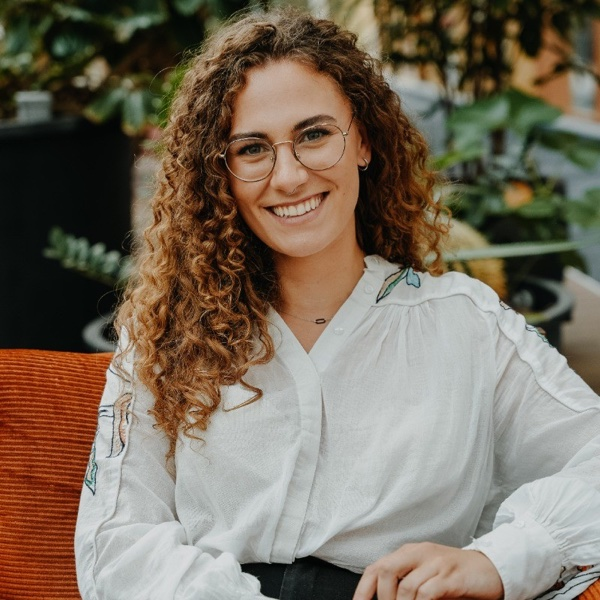
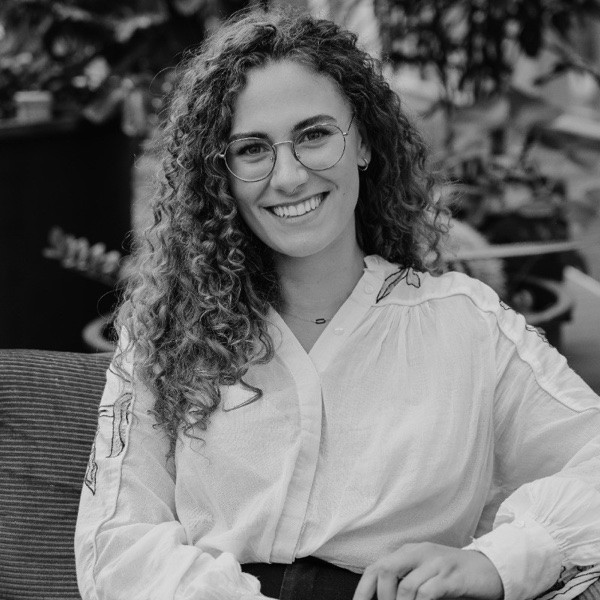
Redesign talent-as-a-service pricing, add reviews/testimonial, rename community page
- Rebuild the "talent as a service" section on the recruitment page as an
  original two-column per-placement vs. subscription comparison instead of
  the reference site's layout
- Add a real Noortje Jonk testimonial and Google reviews badge to the
  recruitment page, with a black-and-white photo matching the About page
  convention
- Rename "Community & jobboard" to "Studenten bereiken"/"Reach students"
  (eyebrow + nav dropdown) since the page is about reaching students, not
  the channels, and add a subscription-vs-per-placement pricing section

diff --git a/components/pages/WervingSelectiePage.tsx b/components/pages/WervingSelectiePage.tsx
@@ -24,6 +24,16 @@ const COPY: Record<
     casesSub: string;
     profilesTitle: string;
     profilesSub: string;
+    taasEyebrow: string;
+    taasTitle: string;
+    taasSub: string;
+    taasPlacementBadge: string;
+    taasPlacementTitle: string;
+    taasPlacementBullets: string[];
+    taasSubBadge: string;
+    taasSubTitle: string;
+    taasSubBullets: string[];
+    taasCta: string;
     testimonialP1: string;
     testimonialP2: string;
     testimonialName: string;
@@ -52,10 +62,28 @@ const COPY: Record<
     casesSub: "Een kleine greep uit de vele bedrijven waar we mee hebben samengewerkt, van scale-up tot corporate.",
     profilesTitle: "HIGH ACHIEVERS, GESELECTEERD OP KWALITEIT EN CULTUUR.",
     profilesSub: "We sourcen voornamelijk hbo- en wo-studenten en young professionals: ambitieus, snel zelfstandig en gewend om te presteren naast hun studie. We matchen niet alleen op skills, maar vooral op cultuurfit, zodat wat we voorstellen ook echt past.",
+    taasEyebrow: "Twee manieren om samen te werken",
+    taasTitle: "VOIDS TALENT AS A SERVICE",
+    taasSub: "Zelfde zorgvuldige werving en selectie, twee manieren om af te rekenen. Kies wat past bij hoe vaak je werft.",
+    taasPlacementBadge: "Eenmalig",
+    taasPlacementTitle: "Per plaatsing",
+    taasPlacementBullets: [
+      "Eén tarief, alleen bij een succesvolle plaatsing",
+      "Geen doorlopende verplichting of vast contract",
+      "Ideaal voor een concrete, eenmalige vacature",
+    ],
+    taasSubBadge: "Doorlopend",
+    taasSubTitle: "Abonnement",
+    taasSubBullets: [
+      "Vast, voordeliger tarief per maand, ongeacht het aantal plaatsingen",
+      "Naadloze vervanging inbegrepen zodra een werkstudent stopt",
+      "Binnen 30 dagen versterking uit onze community van 4.000+ studenten",
+    ],
+    taasCta: "Vraag naar de abonnementsvorm",
     testimonialP1:
-      "We zochten een **vrij specifiek profiel** voor onze werkstudent: iemand met zowel theoretische als praktische kennis van marketing, en affiniteit met de energietransitie – met name netcongestie-oplossingen.",
+      "We zochten een vrij specifiek profiel voor onze werkstudent: iemand met zowel theoretische als praktische kennis van marketing, en affiniteit met de energietransitie, met name netcongestie-oplossingen.",
     testimonialP2:
-      "VOIDS vond **op korte termijn** vier kandidaten voor ons, en na onze eigen gesprekken **vonden we een uitstekende match**. Complimenten aan VOIDS voor hun professionaliteit en betrokkenheid.",
+      "VOIDS vond op korte termijn vier kandidaten voor ons, en na onze eigen gesprekken vonden we een uitstekende match. Complimenten aan VOIDS voor hun professionaliteit en betrokkenheid.",
     testimonialName: "Noortje Jonk",
     testimonialRole: "Commercial Manager bij Enerzien",
     googleRating: "5.0",
@@ -81,10 +109,28 @@ const COPY: Record<
     casesSub: "A small selection from the many companies we've worked with, from scale-up to corporate.",
     profilesTitle: "HIGH ACHIEVERS, SELECTED ON QUALITY AND CULTURE.",
     profilesSub: "We mainly source university and university-of-applied-sciences students and young professionals: ambitious, quick to work independently, and used to performing alongside their studies. We match not just on skills but on culture fit, so what we put forward actually fits.",
+    taasEyebrow: "Two ways to work with us",
+    taasTitle: "VOIDS TALENT AS A SERVICE",
+    taasSub: "Same careful recruitment and selection, two ways to pay for it. Pick what fits how often you hire.",
+    taasPlacementBadge: "One-off",
+    taasPlacementTitle: "Per placement",
+    taasPlacementBullets: [
+      "One fee, only when a placement succeeds",
+      "No ongoing commitment or fixed contract",
+      "Ideal for a single, concrete vacancy",
+    ],
+    taasSubBadge: "Ongoing",
+    taasSubTitle: "Subscription",
+    taasSubBullets: [
+      "Fixed, better-value monthly fee, regardless of how many placements",
+      "Seamless replacement included the moment a working student stops",
+      "Reinforcements within 30 days from our community of 4,000+ students",
+    ],
+    taasCta: "Ask about the subscription",
     testimonialP1:
-      "We were looking for a **fairly specific profile** for our working student: someone with both theoretical and practical knowledge of marketing, and affinity with the energy transition – especially grid congestion solutions.",
+      "We were looking for a fairly specific profile for our working student: someone with both theoretical and practical knowledge of marketing, and affinity with the energy transition, especially grid congestion solutions.",
     testimonialP2:
-      "VOIDS found four candidates for us **on short notice**, and after conducting our own interviews **we found a great fit**. Compliments to VOIDS for their professionalism and commitment.",
+      "VOIDS found four candidates for us on short notice, and after conducting our own interviews we found a great fit. Compliments to VOIDS for their professionalism and commitment.",
     testimonialName: "Noortje Jonk",
     testimonialRole: "Commercial Manager at Enerzien",
     googleRating: "5.0",
@@ -198,8 +244,8 @@ export function WervingSelectiePage({ lang }: { lang: Lang }) {
             <div style={{ color: "var(--voids-purple-100)", fontSize: 13 }}>{c.testimonialRole}</div>
           </div>
           <div>
-            <p style={{ fontSize: 18, lineHeight: 1.6, color: "#fff", margin: "0 0 16px" }}>&ldquo;{renderEmphasis(c.testimonialP1)}</p>
-            <p style={{ fontSize: 18, lineHeight: 1.6, color: "#fff", margin: "0 0 28px" }}>{renderEmphasis(c.testimonialP2)}&rdquo;</p>
+            <p style={{ fontSize: 18, lineHeight: 1.6, color: "#fff", margin: "0 0 16px" }}>&ldquo;{c.testimonialP1}</p>
+            <p style={{ fontSize: 18, lineHeight: 1.6, color: "#fff", margin: "0 0 28px" }}>{c.testimonialP2}&rdquo;</p>
             <GoogleBadge rating={c.googleRating} count={c.googleReviewCount} href="https://share.google/Ki4rN5ZbP3TjyTBCI" />
           </div>
         </div>
@@ -223,6 +269,74 @@ export function WervingSelectiePage({ lang }: { lang: Lang }) {
                 <p style={{ fontSize: 13, lineHeight: 1.5, color: "var(--voids-ink-soft)", margin: 0, fontStyle: "italic" }}>{pr.traits}</p>
               </div>
             ))}
+          </div>
+        </div>
+      </section>
+
+      <section style={{ background: "#fff" }}>
+        <div className="wrap" style={{ padding: "64px 32px" }}>
+          <span className="voids-eyebrow" style={{ color: "var(--voids-blue)" }}>{c.taasEyebrow}</span>
+          <h2 className="anton" style={{ fontSize: 30, margin: "8px 0 12px" }}>
+            <span style={{ color: "var(--text-strong)" }}>VOIDS </span>
+            <span style={{ color: "var(--voids-purple)", fontStyle: "italic" }}>TALENT AS A SERVICE</span>
+          </h2>
+          <p style={{ fontSize: 15, lineHeight: 1.6, color: "var(--voids-ink-muted)", margin: "0 0 36px", maxWidth: 640 }}>{c.taasSub}</p>
+          <div className="g-collapse" style={{ display: "grid", gridTemplateColumns: "1fr 1fr", gap: 24, alignItems: "stretch" }}>
+            <div className="card" style={{ padding: 28, height: "100%", display: "flex", flexDirection: "column" }}>
+              <span
+                style={{
+                  alignSelf: "flex-start",
+                  fontSize: 11,
+                  fontWeight: 700,
+                  letterSpacing: ".03em",
+                  textTransform: "uppercase",
+                  color: "var(--voids-ink-muted)",
+                  background: "var(--voids-beige)",
+                  borderRadius: 999,
+                  padding: "4px 12px",
+                  marginBottom: 14,
+                }}
+              >
+                {c.taasPlacementBadge}
+              </span>
+              <div className="anton" style={{ fontSize: 20, marginBottom: 16 }}>{c.taasPlacementTitle}</div>
+              <div style={{ display: "flex", flexDirection: "column", gap: 12, flex: 1 }}>
+                {c.taasPlacementBullets.map((b) => (
+                  <div key={b} style={{ display: "flex", gap: 10, alignItems: "flex-start" }}>
+                    <CheckIcon color="var(--voids-ink-muted)" />
+                    <span style={{ fontSize: 14, lineHeight: 1.55, color: "var(--voids-ink-muted)" }}>{b}</span>
+                  </div>
+                ))}
+              </div>
+            </div>
+            <div className="card card--accent-purple" style={{ padding: 28, height: "100%", display: "flex", flexDirection: "column" }}>
+              <span
+                style={{
+                  alignSelf: "flex-start",
+                  fontSize: 11,
+                  fontWeight: 700,
+                  letterSpacing: ".03em",
+                  textTransform: "uppercase",
+                  color: "var(--voids-purple)",
+                  background: "var(--voids-purple-100)",
+                  borderRadius: 999,
+                  padding: "4px 12px",
+                  marginBottom: 14,
+                }}
+              >
+                {c.taasSubBadge}
+              </span>
+              <div className="anton" style={{ fontSize: 20, marginBottom: 16, color: "var(--voids-purple)" }}>{c.taasSubTitle}</div>
+              <div style={{ display: "flex", flexDirection: "column", gap: 12, flex: 1, marginBottom: 20 }}>
+                {c.taasSubBullets.map((b) => (
+                  <div key={b} style={{ display: "flex", gap: 10, alignItems: "flex-start" }}>
+                    <CheckIcon color="var(--voids-purple)" />
+                    <span style={{ fontSize: 14, lineHeight: 1.55, color: "var(--text-strong)" }}>{b}</span>
+                  </div>
+                ))}
+              </div>
+              <CalendlyButton label={c.taasCta} variant="secondary" size="md" />
+            </div>
           </div>
         </div>
       </section>
@@ -311,6 +425,15 @@ function SparkleIcon() {
   );
 }
 
+function CheckIcon({ color }: { color: string }) {
+  return (
+    <svg width="14" height="14" viewBox="0 0 14 14" fill="none" aria-hidden="true" style={{ flex: "none", marginTop: 2 }}>
+      <circle cx="7" cy="7" r="6.25" stroke={color} strokeWidth="1.4" />
+      <path d="M4.3 7.1l1.9 1.9 3.5-3.9" stroke={color} strokeWidth="1.4" strokeLinecap="round" strokeLinejoin="round" />
+    </svg>
+  );
+}
+
 const FIELD_ICONS: Record<string, ReactNode> = {
   Marketing: <MarketingIcon />,
   Finance: <FinanceIcon />,
@@ -319,13 +442,6 @@ const FIELD_ICONS: Record<string, ReactNode> = {
   "Business development": <BizDevIcon />,
   "Business support": <BizSupportIcon />,
 };
-
-/** A hand-drawn, marker-circled step number — one signature touch on the one section of the site that's a real numbered sequence. */
-/** Renders **bold** markers in a copy string as <strong> — keeps emphasis translatable and data-driven. */
-function renderEmphasis(text: string): ReactNode {
-  const parts = text.split(/\*\*(.+?)\*\*/g);
-  return parts.map((part, i) => (i % 2 === 1 ? <strong key={i}>{part}</strong> : part));
-}
 
 function GoogleGIcon() {
   return (
@@ -376,6 +492,7 @@ function GoogleBadge({ rating, count, href }: { rating: string; count: string; h
   );
 }
 
+/** A hand-drawn, marker-circled step number — one signature touch on the one section of the site that's a real numbered sequence. */
 function HandCircleNumber({ n }: { n: number }) {
   return (
     <div style={{ position: "relative", width: 42, height: 42, display: "flex", alignItems: "center", justifyContent: "center", flex: "none" }}>

diff --git a/components/pages/CommunityJobboardPage.tsx b/components/pages/CommunityJobboardPage.tsx
@@ -14,7 +14,11 @@ const COPY: Record<
     howTitle: string;
     how: { title: string; text: string; accent: "purple" | "blue" }[];
     pricingTitle: string;
-    pricingText: string;
+    pricingIntro: string;
+    pricingSubTitle: string;
+    pricingSubText: string;
+    pricingAdTitle: string;
+    pricingAdText: string;
     bandAlt: string;
     contactTitle: string;
     contactText: string;
@@ -22,7 +26,7 @@ const COPY: Record<
   }
 > = {
   nl: {
-    eyebrow: "Community & jobboard",
+    eyebrow: "Studenten bereiken",
     title: "ZET JE VACATURE VOOR\n4.000+ STUDENTEN EN STARTERS.",
     sub: "Naast onze werving & selectie-dienst kun je je vacature ook zelf onder de aandacht brengen: rechtstreeks in onze WhatsApp-community en op ons jobboard.",
     heroStats: [
@@ -44,14 +48,18 @@ const COPY: Record<
       },
     ],
     pricingTitle: "WAT KOST HET",
-    pricingText: "Een vacature plaatsen kan al, via een kort intakegesprek. Zelf plaatsen en direct online betalen volgt binnenkort.",
+    pricingIntro: "Een vacature plaatsen kan al, via een kort intakegesprek. Twee manieren om dat te doen:",
+    pricingSubTitle: "Abonnementsvorm",
+    pricingSubText: "Plaats doorlopend vacatures tegen een vast, voordeliger tarief. Handig als je regelmatig werft en niet per plaatsing wilt afrekenen.",
+    pricingAdTitle: "Losse plaatsing",
+    pricingAdText: "Vaste prijs per plaatsing, bepaald door het bereik van de gekozen kanalen op het moment van plaatsen. Tijdelijk extra boosten kan tegen meerprijs.",
     bandAlt: "Team aan het werk op kantoor",
     contactTitle: "VACATURE PLAATSEN?",
     contactText: "Stuur ons je vacature, dan zetten we die voor je live.",
     contactCta: "Neem contact op",
   },
   en: {
-    eyebrow: "Community & job board",
+    eyebrow: "Reach students",
     title: "PUT YOUR VACANCY IN FRONT OF\n4,000+ STUDENTS AND STARTERS.",
     sub: "Alongside our recruitment & selection service, you can also put your vacancy in front of candidates yourself: directly in our WhatsApp community and on our job board.",
     heroStats: [
@@ -73,7 +81,11 @@ const COPY: Record<
       },
     ],
     pricingTitle: "WHAT IT COSTS",
-    pricingText: "Posting a vacancy is already possible, via a short intake call. Self-service posting with online payment is coming soon.",
+    pricingIntro: "Posting a vacancy is already possible, via a short intake call. Two ways to do it:",
+    pricingSubTitle: "Subscription",
+    pricingSubText: "Post vacancies continuously at a fixed, better rate. Useful if you hire regularly and don't want to pay per placement.",
+    pricingAdTitle: "Single placement",
+    pricingAdText: "A fixed fee per placement, determined by the reach of the selected channels at the time of posting. Temporary boosting is available for an extra fee.",
     bandAlt: "The team at work in the office",
     contactTitle: "WANT TO POST A VACANCY?",
     contactText: "Send us your vacancy and we'll get it live for you.",
@@ -114,7 +126,7 @@ export function CommunityJobboardPage({ lang }: { lang: Lang }) {
       <section style={{ background: "#fff" }}>
         <div className="wrap" style={{ padding: "56px 32px 64px" }}>
           <h2 className="anton section-h2" style={{ fontSize: 24, margin: "0 0 20px" }}>{c.howTitle}</h2>
-          <div className="g-collapse" style={{ display: "grid", gridTemplateColumns: "repeat(3, minmax(0, 1fr))", gap: 20, alignItems: "stretch" }}>
+          <div className="g-collapse" style={{ display: "grid", gridTemplateColumns: "repeat(2, minmax(0, 1fr))", gap: 20, alignItems: "stretch" }}>
             {c.how.map((h, i) =>
               i === 1 ? (
                 <Link key={h.title} href={p("/jobboard")} className={`card card--hoverable card--accent-${h.accent}`} style={{ padding: 24, display: "flex", flexDirection: "column", textDecoration: "none", color: "inherit" }}>
@@ -130,10 +142,24 @@ export function CommunityJobboardPage({ lang }: { lang: Lang }) {
                 </div>
               )
             )}
-            <div className="card" style={{ padding: 24, background: "var(--voids-beige)", display: "flex", flexDirection: "column" }}>
+          </div>
+        </div>
+      </section>
+
+      <section style={{ background: "var(--voids-beige)" }}>
+        <div className="wrap" style={{ padding: "56px 32px 64px" }}>
+          <h2 className="anton section-h2" style={{ fontSize: 24, margin: "0 0 8px" }}>{c.pricingTitle}</h2>
+          <p style={{ fontSize: 14.5, color: "var(--voids-ink-muted)", margin: "0 0 24px", maxWidth: 700 }}>{c.pricingIntro}</p>
+          <div className="g-collapse" style={{ display: "grid", gridTemplateColumns: "repeat(2, minmax(0, 1fr))", gap: 20, alignItems: "stretch" }}>
+            <div className="card card--accent-purple" style={{ padding: 24, display: "flex", flexDirection: "column" }}>
               <CoinIcon />
-              <div className="anton" style={{ fontSize: 18, margin: "12px 0 10px" }}>{c.pricingTitle}</div>
-              <p style={{ fontSize: 13.5, lineHeight: 1.55, color: "var(--voids-ink-muted)", margin: 0, flex: 1 }}>{c.pricingText}</p>
+              <div className="anton" style={{ fontSize: 18, margin: "12px 0 10px" }}>{c.pricingSubTitle}</div>
+              <p style={{ fontSize: 13.5, lineHeight: 1.55, color: "var(--voids-ink-muted)", margin: 0, flex: 1 }}>{c.pricingSubText}</p>
+            </div>
+            <div className="card" style={{ padding: 24, display: "flex", flexDirection: "column" }}>
+              <TagIcon />
+              <div className="anton" style={{ fontSize: 18, margin: "12px 0 10px" }}>{c.pricingAdTitle}</div>
+              <p style={{ fontSize: 13.5, lineHeight: 1.55, color: "var(--voids-ink-muted)", margin: 0, flex: 1 }}>{c.pricingAdText}</p>
             </div>
           </div>
         </div>
@@ -167,6 +193,15 @@ function BoardIcon() {
       <rect x="4" y="9" width="22" height="16" rx="2" stroke="var(--voids-blue)" strokeWidth="2" />
       <path d="M11 9V7a2 2 0 0 1 2-2h4a2 2 0 0 1 2 2v2" stroke="var(--voids-blue)" strokeWidth="2" strokeLinecap="round" />
       <path d="M4 15h22" stroke="var(--voids-blue)" strokeWidth="2" />
+    </svg>
+  );
+}
+
+function TagIcon() {
+  return (
+    <svg width="30" height="30" viewBox="0 0 30 30" fill="none" aria-hidden="true">
+      <path d="M16.5 4h6a2 2 0 0 1 2 2v6a2 2 0 0 1-.6 1.4l-11 11a2 2 0 0 1-2.8 0l-6-6a2 2 0 0 1 0-2.8l11-11A2 2 0 0 1 16.5 4Z" stroke="var(--voids-purple)" strokeWidth="2" strokeLinejoin="round" />
+      <circle cx="20.5" cy="9.5" r="1.5" fill="var(--voids-purple)" />
     </svg>
   );
 }

diff --git a/components/site/Header.tsx b/components/site/Header.tsx
@@ -12,7 +12,7 @@ const PRIMARY_ORDER = ["talent", "companies", "impact", "about", "blog", "jobboa
 
 const COMPANY_SERVICES: { id: string; nl: string; en: string; path: string }[] = [
   { id: "wns", nl: "Werving & selectie", en: "Recruitment & selection", path: "/companies/recruitment-selection" },
-  { id: "community", nl: "Community & jobboard", en: "Community & job board", path: "/companies/community-jobboard" },
+  { id: "community", nl: "Studenten bereiken", en: "Reach students", path: "/companies/community-jobboard" },
   { id: "branding", nl: "Advies & employer branding", en: "Advice & employer branding", path: "/companies/employer-branding" },
 ];
 
